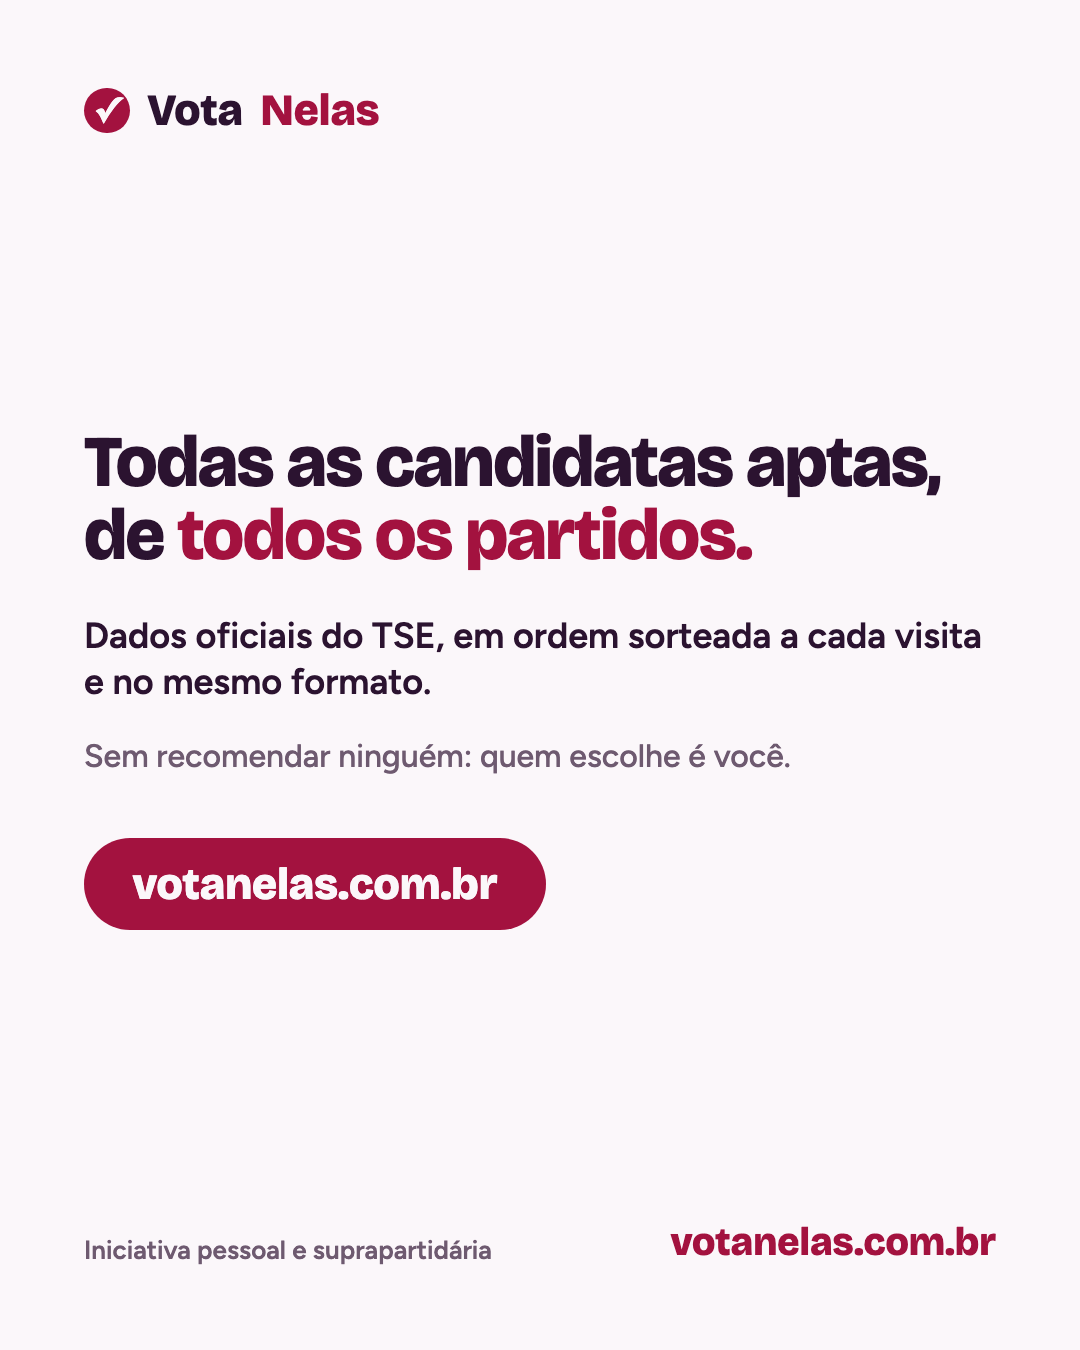
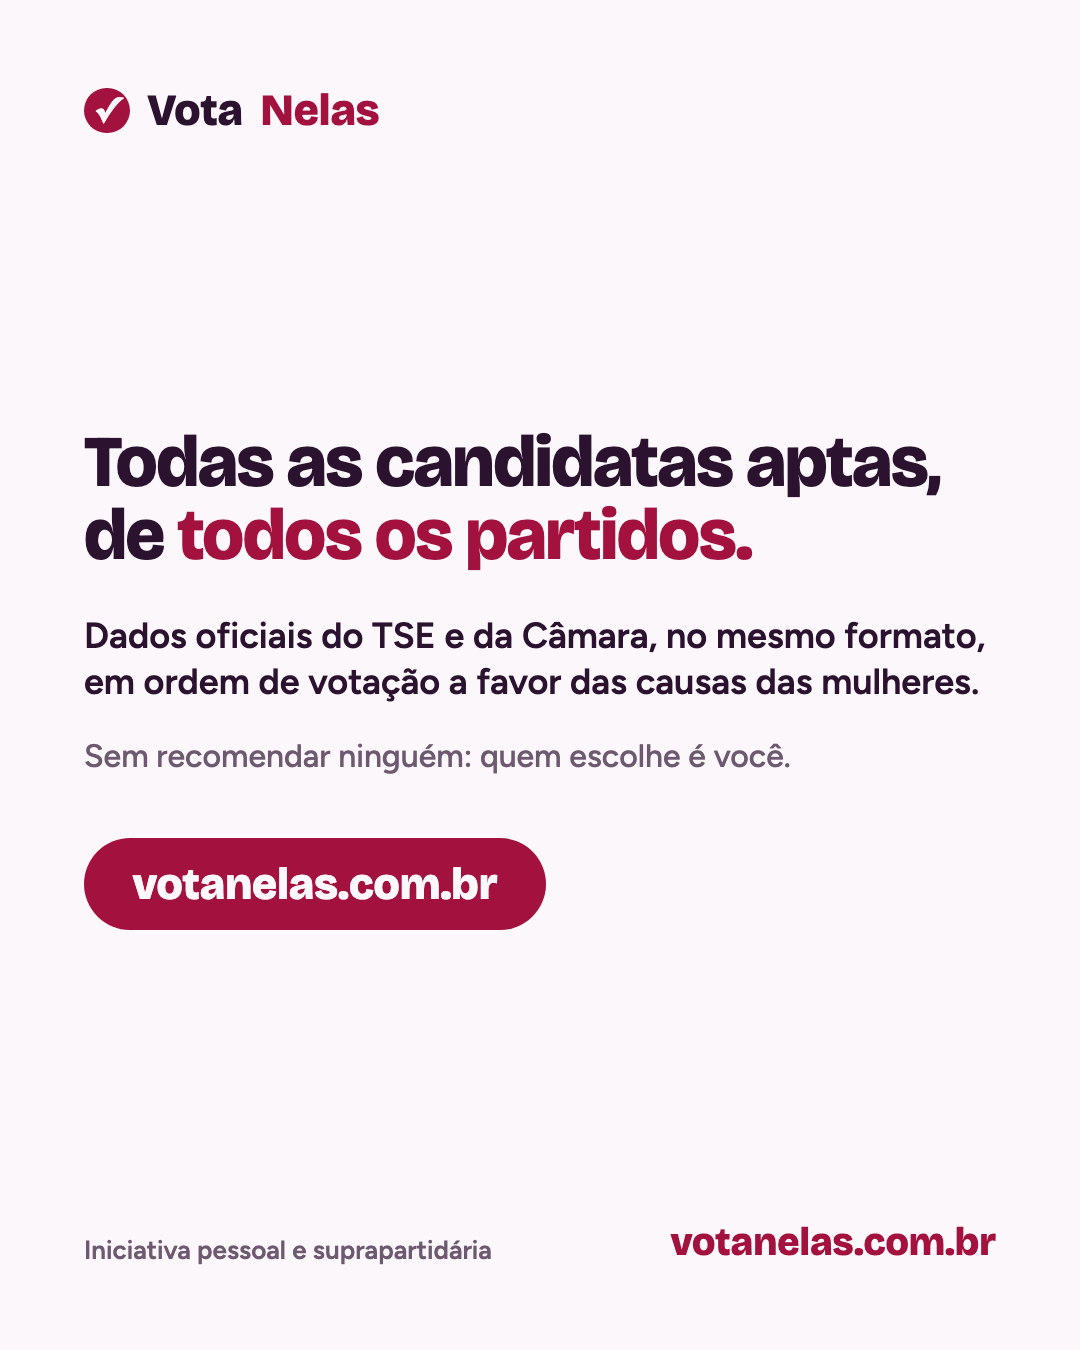
Adiciona as artes e os textos de divulgação "a favor das mulheres"

Changed region(s): [[0.0917, 0.4356, 0.9167, 0.5289]]

diff --git a/docs/marketing/artes/gerar.py b/docs/marketing/artes/gerar.py
@@ -22,7 +22,7 @@ FONTES = ('<link rel="stylesheet" href="https://fonts.googleapis.com/css2?family
           '&family=Figtree:wght@500;600;700&family=Share+Tech+Mono&display=swap">')
 
 CSS = """
-:root{--bg:#FBF7FA;--soft:#F4EAF2;--ink:#2B1330;--muted:#6E5A70;--vinho:#A3123F;--roxo:#5B2A86;--men:#CDBFCB;
+:root{--verde:#1F7A4D;--bg:#FBF7FA;--soft:#F4EAF2;--ink:#2B1330;--muted:#6E5A70;--vinho:#A3123F;--roxo:#5B2A86;--men:#CDBFCB;
   --display:"Bricolage Grotesque",sans-serif;--body:"Figtree",sans-serif;--mono:"Share Tech Mono",monospace}
 .escuro{--bg:#1A0F1C;--soft:#2E1C31;--ink:#F6ECF4;--muted:#BFA9BE;--vinho:#F0527F;--roxo:#C39BEA;--men:#56435A}
 *{box-sizing:border-box;margin:0}
@@ -50,6 +50,9 @@ p{line-height:1.3}
 .colinha .d{display:flex;gap:6px}
 .colinha .d i{width:30px;height:42px;border:2px solid #1B2A17;border-radius:4px;display:grid;place-items:center;font-style:normal;font-family:var(--mono);font-size:28px}
 .passo{display:flex;gap:28px;align-items:flex-start}
+.chip{display:inline-block;background:var(--verde);color:#fff;font-weight:700;border-radius:999px;padding:.12em .7em;white-space:nowrap}
+.escala{display:flex;gap:6px}
+.escala i{flex:1;height:26px;border-radius:6px}
 .passo .n{flex:none;width:92px;height:92px;border-radius:50%;background:var(--vinho);color:var(--bg);display:grid;place-items:center;font-family:var(--display);font-weight:800;font-size:52px}
 """
 
@@ -96,6 +99,40 @@ def lista_conheca(tam_titulo, tam_texto, gap):
         f'<p class="m" style="font-size:{tam_texto}px;margin-top:8px">{d}</p></div></div>' for t, d in CONHECA) + "</div>"
 
 
+# as 5 votações da Câmara e o voto a favor das mulheres em cada uma (mesma regra do site)
+CAUSAS = [
+    ("Fim da escala 6x1", "Mais tempo de descanso para quem soma emprego e cuidado da casa.", "Sim"),
+    ("Igualdade salarial", "Mesmo salário para mulheres e homens no mesmo trabalho.", "Sim"),
+    ("Criminalizar a misoginia", "Urgência para punir o ódio contra as mulheres.", "Sim"),
+    ("PL do Veneno", "Mais agrotóxicos na comida, com menos controle.", "Não"),
+    ("PL da Devastação", "Menos fiscalização ambiental para grandes obras.", "Não"),
+]
+# escala do mapa de calor do site, de contra (vermelho) a favor (verde)
+ESCALA = ('<div class="escala">' + "".join(f'<i style="background:{c}"></i>' for c in
+          ("#B42318", "#F6C3B8", "#ECE4EA", "#B5DEC4", "#1F7A4D")) + "</div>")
+
+
+def lista_causas(tam_titulo, tam_texto, gap, com_texto=True):
+    return f'<div style="display:grid;gap:{gap}px">' + "".join(
+        f'<div style="display:flex;justify-content:space-between;align-items:center;gap:24px;border-bottom:2px solid var(--soft);padding-bottom:{gap // 2}px">'
+        f'<div><h1 style="font-size:{tam_titulo}px">{t}</h1>'
+        + (f'<p class="m" style="font-size:{tam_texto}px;margin-top:6px">{d}</p>' if com_texto else "")
+        + f'</div><span class="chip" style="font-size:{tam_texto}px">A favor = {v}</span></div>' for t, d, v in CAUSAS) + "</div>"
+
+
+ORDEM = [
+    ("Os votos dela na Câmara", "Quem já foi deputada entra pelas vezes que votou a favor das mulheres."),
+    ("Se não tem, os do partido", "Quem nunca votou nessas 5 entra pela bancada do partido na Câmara."),
+    ("Todas aparecem", "Todas as candidatas aptas, no mesmo formato. Só os empates são sorteados."),
+]
+
+
+def lista_ordem(tam_titulo, tam_texto, gap):
+    return f'<div style="display:grid;gap:{gap}px">' + "".join(
+        f'<div class="passo"><div class="n">{i}</div><div><h1 style="font-size:{tam_titulo}px">{t}</h1>'
+        f'<p class="m" style="font-size:{tam_texto}px;margin-top:8px">{d}</p></div></div>' for i, (t, d) in enumerate(ORDEM, 1)) + "</div>"
+
+
 LINHAS_URNA = [("Deputada federal", 4), ("Deputada estadual", 5), ("Senadora 1", 3), ("Senadora 2", 3),
                ("Governadora", 2), ("Presidenta", 2)]
 
@@ -134,7 +171,7 @@ ARTES = {
     "feed_02_carrossel-4": (FEED, "", f"""{LOGO}
       <div class="meio">
         <h1 style="font-size:72px;margin-bottom:40px">Todas as candidatas aptas, de <span class="v">todos os partidos.</span></h1>
-        <p style="font-size:36px;font-weight:600">Dados oficiais do TSE, em ordem sorteada a cada visita e no mesmo formato.</p>
+        <p style="font-size:36px;font-weight:600">Dados oficiais do TSE e da Câmara, no mesmo formato, em ordem de votação a favor das causas das mulheres.</p>
         <p class="m" style="font-size:32px;margin-top:30px">Sem recomendar ninguém: quem escolhe é você.</p>
         <div style="margin-top:60px"><span class="cta" style="font-size:44px">votanelas.com.br</span></div>
       </div>{RODAPE}"""),
@@ -223,6 +260,40 @@ ARTES = {
         {lista_conheca(44, 26, 26)}
       </div>{RODAPE}"""),
 }
+
+# ---------- a favor das mulheres: o sentido das 5 votações e a ordem das candidatas ----------
+ARTES["feed_06_a-favor-1"] = (FEED, "", f"""{LOGO}
+      <div class="meio">
+        <h1 style="font-size:72px">Mais mulheres, sim.</h1>
+        <h1 class="v" style="font-size:72px;margin:6px 0 24px">E que votem a favor das mulheres.</h1>
+        <p class="m" style="font-size:30px;margin-bottom:30px">Suprapartidário, não neutro sobre direitos. Estas 5 votações da Câmara mexem com a nossa vida:</p>
+        {lista_causas(40, 25, 20)}
+      </div>{RODAPE}""")
+ARTES["feed_06_a-favor-2"] = (FEED, "escuro", f"""{LOGO}
+      <div class="meio">
+        <p class="v" style="font-size:30px;font-weight:700;letter-spacing:.12em">COMO A LISTA É ORDENADA</p>
+        <h1 style="font-size:78px;margin:16px 0 46px">As candidatas aparecem em ordem de <span class="v">votação a favor das mulheres.</span></h1>
+        {lista_ordem(48, 30, 40)}
+        <div style="margin-top:50px">{ESCALA}<div style="display:flex;justify-content:space-between;font-size:26px;font-weight:700;margin-top:10px"><span>Contra</span><span>A favor</span></div></div>
+        <p class="m" style="font-size:24px;margin-top:30px">Votos nominais do Plenário da Câmara dos Deputados (dados abertos). Quem escolhe é você.</p>
+      </div>{RODAPE}""")
+ARTES["story_05_a-favor-das-mulheres"] = (STORY, "", f"""{LOGO}
+      <div class="meio">
+        <h1 style="font-size:88px">Mais mulheres, sim.</h1>
+        <h1 class="v" style="font-size:88px;margin:8px 0 40px">E que votem a favor das mulheres.</h1>
+        {lista_causas(46, 28, 20)}
+        <p style="font-size:36px;font-weight:600;margin-top:36px">No site, as candidatas aparecem em ordem de votação a favor dessas causas.</p>
+      </div>
+      {CTA_STORY}
+      {RODAPE_STORY}""")
+ARTES["x_04_a-favor-das-mulheres"] = (X, "", f"""{LOGO}
+      <div class="meio" style="flex-direction:row;align-items:center;gap:70px">
+        <div style="flex:0 0 600px">
+          <h1 style="font-size:78px">Mais mulheres, sim. <span class="v">E que votem a favor das mulheres.</span></h1>
+          <p class="m" style="font-size:28px;margin-top:26px">No site, as candidatas aparecem em ordem de votação a favor destas causas na Câmara.</p>
+        </div>
+        <div style="flex:1">{lista_causas(38, 22, 16, com_texto=False)}</div>
+      </div>{RODAPE}""")
 
 # ---------- fotos de perfil (1080x1080) ----------
 ARTES["perfil_01_marca"] = (PERFIL, "", f"""<div style="flex:1;display:grid;place-items:center;background:var(--vinho)">

diff --git a/docs/marketing/plano.md b/docs/marketing/plano.md
@@ -21,6 +21,7 @@ De 25/09 (lançamento) a 03/10/2026 (véspera da eleição). Em 04/10 não há p
 Estas regras protegem você e o site. Elas estão na seção "Regras que este site segue" e na legislação eleitoral.
 
 - **Suprapartidário sempre:** não citar, marcar nem mostrar nenhuma candidata, candidato ou partido nas suas publicações. O convite é para votar em mulheres, não em alguém.
+- **Suprapartidário, não neutro:** o site defende as causas das mulheres e da sociedade. As candidatas aparecem em ordem de votação a favor dessas causas na Câmara (os votos dela ou, se não tiver, os da bancada do partido). Nas publicações, falar das causas e de como a ordem funciona, sem nomear pessoas ou partidos: quem quiser ver os partidos encontra o mapa de calor no site.
 - **Sem impulsionamento pago:** pessoa física não pode pagar para impulsionar conteúdo eleitoral. Nada de "Promover" no Instagram nem anúncios.
 - **Sem disparo em massa:** compartilhar com seus contatos e grupos pode. Listas compradas, robôs ou envio automático, não.
 - **Sem enquetes:** não usar enquete, "caixinha de votação" ou pergunta sobre intenção de voto nos stories.
@@ -49,7 +50,7 @@ Hashtags: `#VotaNelas` `#EuVotoNelas` `#MaisMulheresNaPolítica` `#Eleições202
 | **Seg 28/09** | Voto em dobro | `feed_03_voto-em-dobro` · X: fio do voto em dobro | `story_contagem_06` + `story_03_voto-em-dobro` | Início das mensagens para parceiras |
 | **Ter 29/09** | Conheça a candidata | `feed_05_conheca-a-candidata` · X: `x_03_conheca-a-candidata` | `story_contagem_05` + `story_04_conheca-a-candidata` | — |
 | **Qua 30/09** | Manifesto | Print do contador do manifesto nos stories · X: `x_02_como-funciona` | `story_contagem_04` + `story_02_manifesto` | Grupos de trabalho, faculdade, bairro |
-| **Qui 01/10** | Reforço dos números | Repost de `feed_01_52-e-17` · X: dado do Senado | `story_contagem_03` | — |
+| **Qui 01/10** | A favor das mulheres | Carrossel `feed_06_a-favor-1` e `-2` · X: `x_04_a-favor-das-mulheres` | `story_contagem_03` + `story_05_a-favor-das-mulheres` | Mensagem "a favor das mulheres" nos grupos |
 | **Sex 02/10** | Passe para 3 amigas | Post pedindo para mandar a colinha · X: pedido de RT | `story_contagem_02` | Onda 2: todos os grupos |
 | **Sáb 03/10** | Véspera | Repost de `feed_04_colinha` · X: lembrete da colinha | `story_contagem_01` (escuro) | Lembrete final: "leve a colinha amanhã" |
 | **Dom 04/10** | Eleição | **Nada novo.** | **Nada novo.** | **Nada novo.** |
@@ -63,7 +64,7 @@ Hashtags: `#VotaNelas` `#EuVotoNelas` `#MaisMulheresNaPolítica` `#Eleições202
 >
 > Criei o Vota Nelas: você escolhe seu estado e uma mulher em cada cargo que quiser, na ordem da urna (onde não houver uma candidata que te represente, é só pular), e recebe uma colinha pronta para levar no dia 4 e mandar para as amigas.
 >
-> Aparecem todas as candidatas aptas, de todos os partidos, com os dados oficiais do TSE e em ordem sorteada. Quem escolhe é você.
+> Aparecem todas as candidatas aptas, de todos os partidos, com os dados oficiais do TSE, em ordem de votação a favor das causas das mulheres. Quem escolhe é você.
 >
 > Leva 3 minutos: link na bio 💜
 > #VotaNelas #EuVotoNelas #MaisMulheresNaPolítica #Eleições2026
@@ -91,6 +92,15 @@ Hashtags: `#VotaNelas` `#EuVotoNelas` `#MaisMulheresNaPolítica` `#Eleições202
 >
 > Dados oficiais do TSE e da Câmara. O site não recomenda ninguém: quem escolhe é você. Link na bio.
 
+**01/10, a favor das mulheres** (carrossel `feed_06_a-favor-1` e `-2`)
+> Mais mulheres, sim. E que votem a favor das mulheres.
+>
+> O Vota Nelas é suprapartidário, mas não é neutro sobre direitos. Eleger mais mulheres só muda a nossa vida quando elas votam a favor das mulheres, das minorias e da sociedade.
+>
+> Por isso, no site, as candidatas aparecem em ordem de votação a favor de 5 causas na Câmara: fim da escala 6x1, igualdade salarial e criminalização da misoginia (a favor = Sim), PL do Veneno e PL da Devastação (a favor = Não). Quem já foi deputada entra pelos votos dela; quem não tem votos lá, pela bancada do partido. Todas aparecem, no mesmo formato.
+>
+> Votos oficiais da Câmara. Quem escolhe é você. Link na bio.
+
 **02/10, passe para 3 amigas**
 > Faltam 2 dias. Já montou sua urna? Agora manda a colinha para 3 amigas: cada colinha compartilhada pode virar mais votos em mulheres.
 
@@ -101,7 +111,7 @@ Hashtags: `#VotaNelas` `#EuVotoNelas` `#MaisMulheresNaPolítica` `#Eleições202
 >
 > 2/ Escolhe o estado e uma mulher nos cargos que quiser, na ordem da urna, e recebe uma colinha para levar no dia 4.
 >
-> 3/ É suprapartidário: aparecem todas as candidatas aptas, de todos os partidos, com dados oficiais do TSE e em ordem sorteada.
+> 3/ É suprapartidário, mas não neutro: aparecem todas as candidatas aptas, de todos os partidos, com dados oficiais do TSE, em ordem de votação a favor das causas das mulheres na Câmara.
 >
 > 4/ Se puder, manda para 3 amigas. #VotaNelas
 
@@ -111,7 +121,10 @@ Hashtags: `#VotaNelas` `#EuVotoNelas` `#MaisMulheresNaPolítica` `#Eleições202
 **29/09, conheça a candidata**
 > Antes de votar, conheça a candidata: no votanelas.com.br tem o link oficial do TSE (bens, certidões, contas) e, para quem já foi deputada, como ela votou na Câmara. Dados oficiais; quem escolhe é você. #VotaNelas
 
-**01/10, Senado**
+**01/10, a favor das mulheres** (`x_04_a-favor-das-mulheres`)
+> Mais mulheres, sim. E que votem a favor das mulheres. No votanelas.com.br as candidatas aparecem em ordem de votação a favor de 5 causas na Câmara: escala 6x1, igualdade salarial, misoginia, agrotóxicos e licenciamento ambiental. #VotaNelas
+
+**01/10, Senado** (se sobrar tempo)
 > No Senado, são 15 senadoras em 81 cadeiras (18,5%). Neste ano cada eleitor vota em 2 nomes para o Senado. votanelas.com.br
 
 **03/10, véspera**
@@ -127,6 +140,9 @@ Hashtags: `#VotaNelas` `#EuVotoNelas` `#MaisMulheresNaPolítica` `#Eleições202
 **Onda 2, 02/10, todos os grupos**
 > Faltam 2 dias para a eleição! Se você quer votar em mais mulheres, monte sua urna em 3 minutos e leve a colinha no domingo: votanelas.com.br
 > Mulheres são 52,8% do eleitorado e só 17,2% da Câmara. Passa para 3 amigas?
+
+**A favor das mulheres, 01/10**
+> Sabia que no Vota Nelas as candidatas aparecem em ordem de votação a favor das causas das mulheres? Primeiro quem mais votou na Câmara pelo fim da escala 6x1, pela igualdade salarial e contra mais agrotóxicos, por exemplo. Dá uma olhada antes de escolher: votanelas.com.br
 
 **Lembrete final, 03/10**
 > Amanhã é dia 4! O celular não entra na cabine: anota ou tira print da sua colinha hoje. Ainda não montou? votanelas.com.br
@@ -145,7 +161,7 @@ Pedir para movimentos, coletivos e perfis de mulheres compartilharem. O argument
 
 **Mensagem para movimentos e coletivos (DM ou e-mail):**
 > Oi! Sou a Thais Freitas e criei o Vota Nelas (votanelas.com.br), um site suprapartidário em que a pessoa monta a urna com mais mulheres, cargo por cargo, e recebe uma colinha para levar no dia 4.
-> Aparecem todas as candidatas aptas, de todos os partidos, com dados oficiais do TSE e em ordem sorteada; o site não pede nenhum dado pessoal.
+> Aparecem todas as candidatas aptas, de todos os partidos, com dados oficiais do TSE, em ordem de votação a favor das causas das mulheres na Câmara; o site não pede nenhum dado pessoal.
 > Vocês topariam compartilhar com a comunidade de vocês? Posso mandar artes prontas para feed e stories. Obrigada!
 
 **Mensagem para perfis de conteúdo:**
@@ -170,11 +186,14 @@ Pedir para movimentos, coletivos e perfis de mulheres compartilharem. O argument
 | `feed_03_voto-em-dobro.png` | 1080x1350 | Feed: voto em dobro (escuro) |
 | `feed_04_colinha.png` | 1080x1350 | Feed: colinha em papel |
 | `feed_05_conheca-a-candidata.png` | 1080x1350 | Feed: conheça a candidata (escuro) |
+| `feed_06_a-favor-1/2.png` | 1080x1350 | Feed: carrossel "a favor das mulheres" (1: as 5 causas; 2: como a lista é ordenada, escuro) |
 | `story_01_convite.png` | 1080x1920 | Stories e status: convite |
 | `story_02_manifesto.png` | 1080x1920 | Stories e status: manifesto (escuro) |
 | `story_03_voto-em-dobro.png` | 1080x1920 | Stories e status: voto em dobro |
 | `story_04_conheca-a-candidata.png` | 1080x1920 | Stories e status: conheça a candidata (escuro) |
+| `story_05_a-favor-das-mulheres.png` | 1080x1920 | Stories e status: as 5 causas e a ordem das candidatas |
 | `story_contagem_08.png` a `_01.png` | 1080x1920 | Contagem regressiva, 26/09 a 03/10 (dias ímpares lembram de conhecer a candidata) |
 | `x_01_52-e-17.png` | 1600x900 | X: números |
 | `x_02_como-funciona.png` | 1600x900 | X: como funciona (escuro) |
 | `x_03_conheca-a-candidata.png` | 1600x900 | X: conheça a candidata |
+| `x_04_a-favor-das-mulheres.png` | 1600x900 | X: as 5 causas e a ordem das candidatas |
